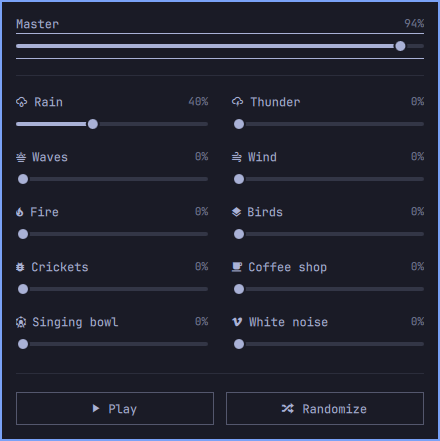
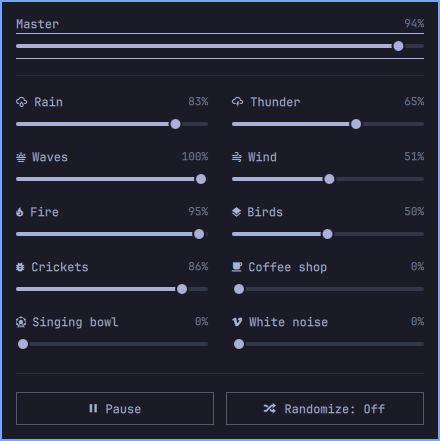
fix: update mixer bindings and distinguish toggle states

diff --git a/tests/tst_service.qml b/tests/tst_service.qml
@@ -9,6 +9,13 @@ TestCase {
     when: windowShown
     property var mixer: null
     MediaDevices { id: devices }
+    // Same binding chain as a slider/audio delegate: mutating a JS object
+    // without replacing it leaves this value stale even if the array changes.
+    QtObject {
+        id: view
+        readonly property var channel: tests.mixer ? tests.mixer.channels[0] : null
+        readonly property real value: channel ? channel.current : 0
+    }
 
     QtObject {
         id: fakeShell
@@ -57,6 +64,44 @@ TestCase {
         compare(other.channels[1].base, 0.2);
         compare(other.playing, false);
         compare(other.animating, false);
+    }
+
+    function test_editWhilePlayingUpdatesBindingsAndAudio() {
+        mixer.togglePlayback();
+        tryCompare(playerFor('rain'), 'playbackState', MediaPlayer.PlayingState);
+        mixer.setLevel(0, 0.8);
+        compare(view.value, 0.8);
+        tryCompare(playerFor('rain').audioOutput, 'volume', mixer.master * 0.8);
+        mixer.setLevel(1, 0.6);
+        tryCompare(playerFor('thunder'), 'playbackState', MediaPlayer.PlayingState);
+        mixer.setLevel(1, 0);
+        tryCompare(playerFor('thunder'), 'playbackState', MediaPlayer.StoppedState);
+        verify(mixer.playing);
+    }
+
+    function test_randomUpdatesBindingsAndAudio() {
+        mixer.togglePlayback();
+        mixer.toggleRandomize();
+        var initial = view.value;
+        // Fix this transition's target so the regression does not depend on
+        // Math.random happening to choose a noticeable change.
+        var next = mixer.channels.slice();
+        next[0] = Object.assign({}, next[0], {from: initial, target: 0.2, elapsed: 0, duration: 2});
+        mixer.channels = next;
+        tryVerify(function() { return Math.abs(view.value - initial) > 0.000001; }, 5000);
+        compare(view.value, mixer.channels[0].current);
+        compare(findChild(mixer, 'channel-rain').level, mixer.master * view.value);
+        mixer.hold(0, true);
+        var held = view.value;
+        wait(300);
+        compare(view.value, held);
+        tryVerify(function() { return Math.abs(playerFor('rain').audioOutput.volume - mixer.master * held) < 0.0001; });
+        mixer.setLevel(0, 0.7);
+        compare(view.value, 0.7);
+        mixer.hold(0, false);
+        wait(300);
+        mixer.toggleRandomize();
+        tryCompare(view, 'value', 0.7);
     }
 
     function test_allChannelsAndPause() {

diff --git a/Panel.qml b/Panel.qml
@@ -39,6 +39,7 @@ Ui.Panel {
                 anchors.fill: parent
                 clip: true
                 contentHeight: content.implicitHeight
+                interactive: contentHeight > height
                 boundsBehavior: Flickable.StopAtBounds
 
                 Column {
@@ -96,6 +97,9 @@ Ui.Panel {
                             iconText: root.mixer && root.mixer.playing ? '' : ''
                             focusable: true
                             bordered: true
+                            // Hover and keyboard focus use the native outline;
+                            // a filled background is reserved for a toggle's On state.
+                            color: 'transparent'
                             enabled: root.mixer && root.mixer.canPlay
                             opacity: enabled ? 1 : 0.5
                             onClicked: root.mixer.togglePlayback()
@@ -105,12 +109,13 @@ Ui.Panel {
                         }
                         Ui.Button {
                             width: (parent.width - parent.spacing) / 2
-                            text: 'Randomize'
+                            text: selected ? 'Randomize: On' : 'Randomize: Off'
                             iconText: ''
                             focusable: true
                             bordered: true
                             selected: root.mixer ? root.mixer.randomize : false
-                            tooltipText: selected ? 'Gentle volume drift is on' : 'Gently vary active sounds'
+                            color: selected ? Style.selectedFillFor(foreground, accent) : 'transparent'
+                            tooltipText: selected ? (root.mixer && root.mixer.playing ? 'Gentle volume drift is on' : 'Volume drift is on — press Play to start') : 'Gently vary active sounds'
                             onClicked: root.mixer.toggleRandomize()
                             Accessible.role: Accessible.CheckBox
                             Accessible.name: 'Randomize'

diff --git a/Service.qml b/Service.qml
@@ -60,15 +60,18 @@ Item {
 
     function setLevel(index, value) {
         if (index < 0 || index >= channels.length) return;
-        Model.setLevel(channels[index], value);
-        channels = channels.slice();
+        var next = channels.slice();
+        next[index] = Object.assign({}, next[index]);
+        Model.setLevel(next[index], value);
+        channels = next;
         saveTimer.restart();
     }
 
     function hold(index, held) {
         if (index < 0 || index >= channels.length) return;
-        channels[index].held = held;
-        channels = channels.slice();
+        var next = channels.slice();
+        next[index] = Object.assign({}, next[index], {held: held});
+        channels = next;
         if (!held) saveNow();
     }
 
@@ -79,11 +82,12 @@ Item {
 
     function toggleRandomize() {
         randomize = !randomize;
-        channels.forEach(function(c) {
+        channels = channels.map(function(channel) {
+            var c = Object.assign({}, channel);
             if (!root.randomize) Model.returnToBase(c, root.playing);
             else c.duration = 0;
+            return c;
         });
-        channels = channels.slice();
         saveNow();
     }
 
@@ -114,10 +118,13 @@ Item {
         repeat: true
         running: root.playing && root.canPlay && (root.randomize || root.settling)
         onTriggered: {
-            root.channels.forEach(function(c) {
+            // Delegates bind through a channel object. A new array alone
+            // does not notify bindings to that object's JS properties.
+            root.channels = root.channels.map(function(channel) {
+                var c = Object.assign({}, channel);
                 if (!root.errors[c.id]) Model.advance(c, interval / 1000, root.randomize, Math.random);
+                return c;
             });
-            root.channels = root.channels.slice();
         }
     }
 

diff --git a/docs/VALIDATION.md b/docs/VALIDATION.md
@@ -14,7 +14,7 @@ environment. CI also validates against the official Omarchy shell at commit
 | Ogg decoding, duration and boundary discontinuities | All 10 pass |
 | Sum of decoded individual peaks | 0.8225; below full scale with all channels at maximum |
 | Deterministic mixer model | 9 tests, including one simulated hour of drift |
-| Qt service integration | 4 scenarios: ten players and pause/resume; persistence; random/mute; error isolation |
+| Qt service integration | 6 scenarios: ten players and pause/resume; persistence; random/mute; error isolation; live edits; visible/audible drift |
 | Actual looping | Qt player crosses two boundaries during 64 seconds of playback |
 | Recorded loop continuity | 61-second interval, longest near-silent run 0.04 ms, no clipping |
 | Manifest validation and QML analysis | Pass, no lint warnings |
@@ -30,6 +30,29 @@ The remaining files pass decoded boundary checks; this does not replace human
 listening to every recording or guarantee every audio backend is gapless.
 
 ## Desktop checks
+
+### Feedback regression checks
+
+The first integration tests read channel objects directly and missed stale
+delegate bindings. Added tests reproduce the real binding chain (channel
+object → displayed value) and inspect the native audio output while playing.
+Before the fix, editing 40% to 80% left the bound value at 40%, and Randomize
+failed to change the bound value. Both regressions now pass. Changed channels
+get new object identities so QML updates the sliders and audio gains.
+
+Live inspection also found orphaned output connections and a persisted
+WirePlumber application volume of zero for `media.name:quickshell`. Reloading
+the shell cleared the old connections; restoring that application volume
+produced nonzero audio on the Speaker monitor (3-second capture: peak 0.0700,
+RMS 0.0115). This was a local audio setting repair, not a runtime override of
+the user's system volume. The plugin's Qt output selection remains unchanged.
+A separate two-sink capture confirmed audio after removal of the first sink
+and explicit selection of the second. Bluetooth reconnection remains untested.
+
+The live panel shows `Randomize: On` / `Randomize: Off`; hover and focus retain
+native outlines without borrowing the selected background fill.
+
+### Initial desktop checks
 
 - Installed and enabled using Omarchy's plugin discovery, with the icon placed
   immediately after the clock and existing widget order preserved.

diff --git a/README.md b/README.md
@@ -20,7 +20,7 @@ omarchy bar move nachfq.murmur --section center --after omarchy.clock
 ```
 
 The install command uses the repository's default branch. During initial
-review, it becomes usable after the three implementation PRs are merged.
+review, it becomes usable after the implementation PRs are merged.
 Omarchy installs the files and asks before enabling; there are no install hooks,
 extra processes or runtime package downloads. If Qt Multimedia is missing,
 install the two packages with Omarchy's package manager before enabling.
@@ -32,7 +32,8 @@ install the two packages with Omarchy's package manager before enabling.
 - **Play / Pause** controls the whole mix. A channel at zero is off. With every
   channel off, Play is disabled until you raise one.
 - **Master** changes only Murmur. The operating system volume remains separate.
-- **Randomize** is a toggle; its filled appearance means it is on. Each active
+- **Randomize** shows On / Off; only On has a filled background. Hover and
+  keyboard focus use an outline. Drift runs during playback. Each active
   sound drifts within ±25% of its chosen volume over independent 15–30 second
   transitions. Zero-volume sounds stay off.
 - Sliders follow the audible mix. Dragging one sets a new base volume and
@@ -51,6 +52,10 @@ as with other Omarchy inline widget preferences.
 One shared audio service serves all bar instances. Audio follows the system's
 default output, including changes between headphones and speakers. Sounds are
 calibrated with fixed headroom so all ten can play together without clipping.
+
+If Play is active but silent, check both the selected output and the
+**Quickshell application volume** in Omarchy's audio panel. The system remembers
+that application volume separately from Murmur's master and channel sliders.
 
 ## Update and remove
 
